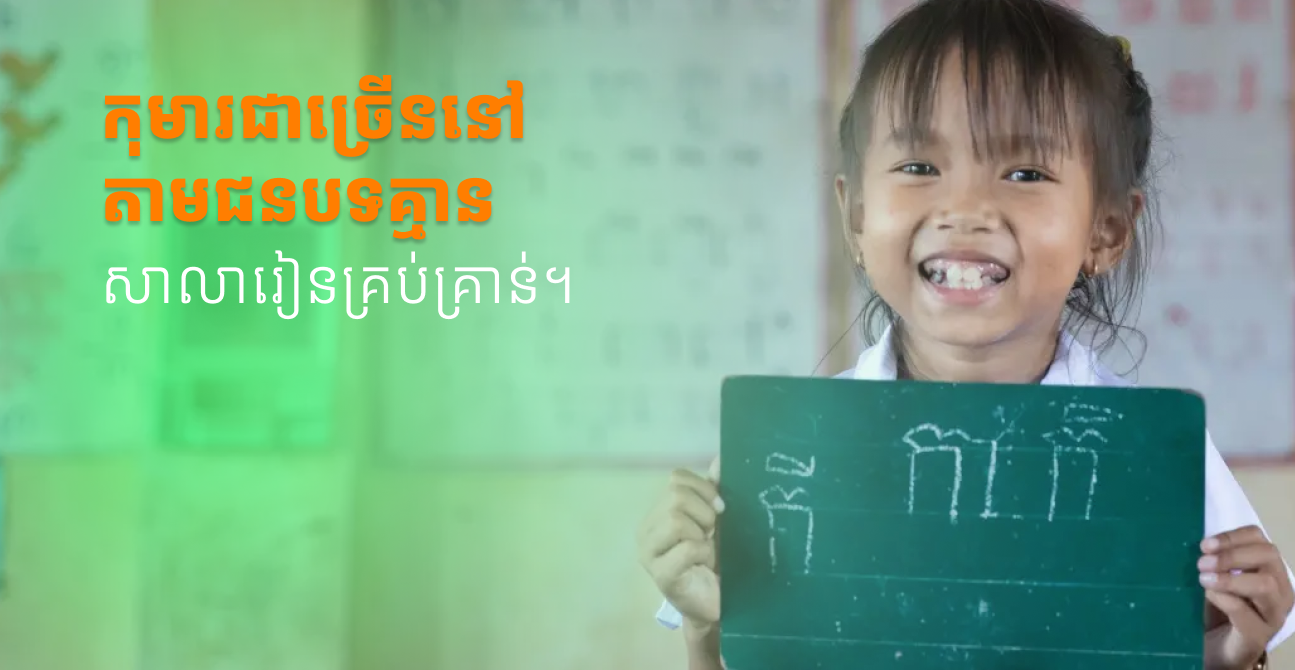
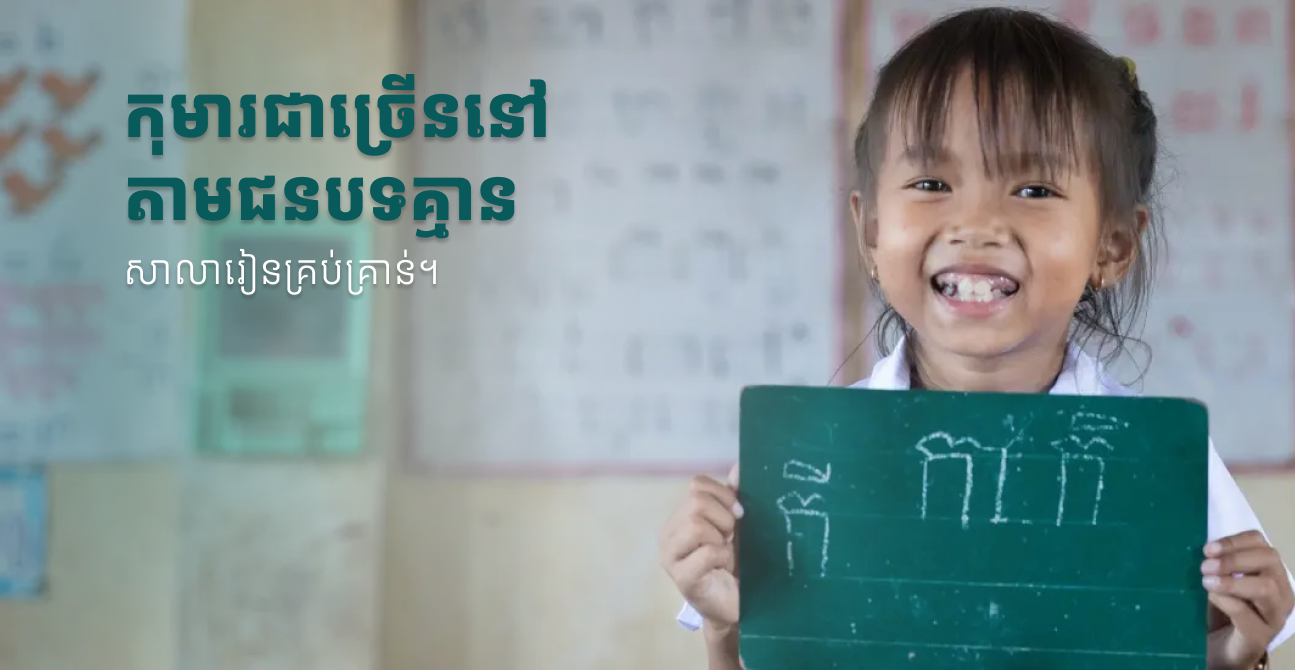
counter and fadeInOut

diff --git a/index.html b/index.html
@@ -85,8 +85,9 @@
 		</header>
 		<main>
 			<section>
-				<div class="container-fluid container-lg hero-banner my-5 mx-auto">
-					<div id="carouselExampleIndicators" class="carousel slide carousel-fade slide-banner" data-bs-ride="carousel" data-bs-interval="4000" data-csi="scroll">
+				<div class="container-fluid container-lg hero-banner my-5 mx-auto animate__animated animate__fadeIn">
+					<div id="carouselExampleIndicators" class="carousel slide carousel-fade slide-banner"
+						data-bs-ride="carousel" data-bs-interval="4000" data-csi="fade-in-out">
 						<div class="carousel-indicators">
 							<button type="button" data-bs-target="#carouselExampleIndicators" data-bs-slide-to="0"
 								class="active" aria-current="true" aria-label="Slide 1"></button>
@@ -108,15 +109,19 @@
 								<img src="assets/image/hero/hero3.png" alt="...">
 							</div>
 							<div class="carousel-item">
-								<img src="assets/image/hero/hero1.png" alt="...">
+								<img
+									src="https://live-production.wcms.abc-cdn.net.au/ac05d093590f0dc6c5de05cc50b528c0?impolicy=wcms_crop_resize&cropH=2813&cropW=5000&xPos=0&yPos=0&width=862&height=485"
+									alt="...">
 							</div>
 						</div>
-						<button class="carousel-control-prev" type="button" data-bs-target="#carouselExampleIndicators"
+						<button class="carousel-control-prev" type="button"
+							data-bs-target="#carouselExampleIndicators"
 							data-bs-slide="prev">
 							<span class="carousel-control-prev-icon" aria-hidden="true"></span>
 							<span class="visually-hidden">Previous</span>
 						</button>
-						<button class="carousel-control-next" type="button" data-bs-target="#carouselExampleIndicators"
+						<button class="carousel-control-next" type="button"
+							data-bs-target="#carouselExampleIndicators"
 							data-bs-slide="next">
 							<span class="carousel-control-next-icon" aria-hidden="true"></span>
 							<span class="visually-hidden">Next</span>
@@ -124,14 +129,49 @@
 					</div>
 				</div>
 			</section>
-			<div style="height: 200vh;">
-
-			</div>
+			<section>
+				<div class="container-fluid container-lg mb-5 animate__animated" data-csi="fade-in-out">
+					<div class="row justify-content-center align-items-start gap-5 gap-md-0 bg-primary rounded-5 py-4 py-md-5 mx-1 mx-lg-0 fw-bold text-center counter-text">
+						<div class="col-12 col-md-4">
+							<div class="card bg-transparent border-0">
+								<div class="card-body p-0">
+									<div class="counter display-3 fw-semibold" data-countto="2500" data-duration="4000">0</div>
+								</div>
+								<div class="card-footer bg-transparent border-0 p-0">
+									<p class="card-text fw-normal">ចំនួនអ្នកផ្លល់ជំនួយ</p>
+								</div>
+							</div>
+						</div>
+						<div class="col-12 col-md-4">
+							<div class="card bg-transparent border-0">
+								<div class="card-body p-0">
+									<div class="counter display-3 fw-semibold" data-countto="500" data-duration="4000">0</div>
+								</div>
+								<div class="card-footer bg-transparent border-0 p-0">
+									<p class="card-text fw-normal">ចំនួនអ្នកធ្វើការស្ម័គ្រចិត្ត</p>
+								</div>
+							</div>
+						</div>
+						<div class="col-12 col-md-4">
+							<div class="card bg-transparent border-0">
+								<div class="card-body p-0">
+									<div class="counter display-3 fw-semibold" data-countto="3000" data-duration="4000">0</div>
+								</div>
+								<div class="card-footer bg-transparent border-0 p-0">
+									<p class="card-text fw-normal">ចំនួនអ្នកផ្លល់ជំនួយតាមអ៊នឡាញ</p>
+								</div>
+							</div>
+						</div>
+					</div>
+				</div>
+			</section>
+			<section style="height: 200vh;"></section>
 		</main>
 		<footer>
-			
+
 		</footer>
 	</body>
+	<script src="https://cdnjs.cloudflare.com/ajax/libs/jquery/3.4.1/jquery.min.js"></script>
 	<script src="bootstrap/js/bootstrap.bundle.js"></script>
 	<script src="https://unpkg.com/aos@2.3.1/dist/aos.js"></script>
 	<script src="assets/js/theme.js"></script>

diff --git a/assets/css/style.css b/assets/css/style.css
@@ -9,6 +9,15 @@
 /** css  */
 /** hor */
 @import url("theme.css");
+@import url("data.css");
+/** muslim */
+
+/** kim hak */
+
+/** punleu */
+
+/** vuthy */
+
 
 :root {
 	--english: "Source Sans 3", sans-serif;
@@ -29,16 +38,6 @@ body {
 	font-size: 18px;
 }
 
-[data-csi="glass"] {
-	background-color: var(--light);
-	position: sticky;
-	top: 0;
-	bottom: 0;
-	animation: glass both;
-	animation-timeline: view(99% 100%);
-	transition: all 1s ease-in-out;
-}
-
 .header-link > li > a {
 	color: var(--dark) !important;
 	&:hover,
@@ -47,27 +46,6 @@ body {
 	&.active,
 	&.show {
 		color: var(--bs-primary) !important;
-	}
-}
-
-@media screen and (min-width: 992px) {
-	@keyframes glass {
-		0% {
-			background-color: var(--light);
-			width: 100%;
-			border-radius: 0px;
-			top: 5px;
-			box-shadow: none;
-		}
-		5%,
-		100% {
-			background-color: rgba(from var(--light) 0.9);
-			color: white;
-			top: 5px;
-			width: 95%;
-			backdrop-filter: blur(10px); border: 1px solid rgba(0, 0, 0, 0.1);
-			border-radius: 20px;
-		}
 	}
 }
 
@@ -87,30 +65,53 @@ body {
 	height: 100%;
 	object-fit: cover;
 	object-position: top;
-	/* aspect-ratio: 16 / 9; */
+	aspect-ratio: 16 / 9;
 }
 
-/* @media screen and (max-width: 991px) {
-	.carousel-inner {
-		height: 50vh;
+/** counter */
+
+.counter-size {
+	width: 100px !important;
+	height: 100px !important;
+}
+
+.counter {
+	width: 100%;
+	height: 100%;
+	display: flex;
+	align-items: center;
+	align-content: center;
+	justify-content: center;
+	vertical-align: middle;
+	&::before {
+		content: '+';
+		margin-right: 5px;
 	}
 }
+
+.counter-text > 
+.col-12 .card,
+.col-lg-4 .card {
+	color: var(--light);
+	& .card-footer {
+		color: var(--warning);
+		& p {
+			font-size: clamp(1rem, 1vw + 0.6rem , 3rem);
+		}
+	}
+}
+
+
+/** media screen */
 
 @media screen and (max-width: 767px) {
-	.carousel-inner {
-		height: 25vh;
-	}
-} */
-
-[data-csi="scroll"] {
-	animation: scroll both;
-	animation-timeline: view(0% 100%);
+	
 }
 
-@keyframes scroll {
-	from {
-		scale: 1;
-	} to {
-		scale: 0;
-	}
+@media screen and (max-width: 991px) {
+	
+}
+
+@media screen and (min-width: 992px) {
+	
 }

diff --git a/assets/css/data.css b/assets/css/data.css
@@ -1,0 +1,67 @@
+[data-csi="glass"] {
+	background-color: var(--light);
+	position: sticky;
+	top: 0;
+	bottom: 0;
+	animation: glass both;
+	animation-timeline: view(99% 100%);
+	transition: all 1s ease-in-out;
+}
+
+@media screen and (min-width: 992px) {
+	@keyframes glass {
+		0% {
+			background-color: var(--light);
+			width: 100%;
+			border-radius: 0px;
+			top: 5px;
+			box-shadow: none;
+		}
+		5%,
+		100% {
+			background-color: rgba(from var(--light) 0.9);
+			color: white;
+			top: 5px;
+			width: 95%;
+			backdrop-filter: blur(10px);
+			border: 1px solid rgba(0, 0, 0, 0.1);
+			border-radius: 20px;
+		}
+	}
+}
+
+[data-csi="scroll"] {
+	animation: scroll;
+	animation-timeline: view(0% 100%);
+}
+
+@keyframes scroll {
+	0% {
+		scale: 1;
+	}
+	60%, 100% {
+		scale: .9;
+		filter: blur(20px);
+	}
+}
+
+[data-csi="fade-in-out"] {
+	animation: fadeInOut both;
+	animation-timeline: view(10% 25%);
+}
+
+@keyframes fadeInOut {
+	0% {
+		opacity: 0;
+		scale: .8;
+		filter: blur(100px);
+	} 5%, 85% {
+		opacity: 1;
+		scale: 1;
+		filter: blur(0);
+	} 100% {
+		opacity: 1;
+		scale: .8;
+		filter: blur(20px);
+	}
+}

diff --git a/assets/js/theme.js b/assets/js/theme.js
@@ -88,3 +88,25 @@
 
 // * aos animation on scroll
 AOS.init();
+
+// * counter
+$(".counter").each(function () {
+  var $this = $(this),
+    countTo = $this.attr("data-countto");
+  countDuration = parseInt($this.attr("data-duration"));
+  $({ counter: $this.text() }).animate(
+    {
+      counter: countTo
+    },
+    {
+      duration: countDuration,
+      easing: "linear",
+      step: function () {
+        $this.text(Math.floor(this.counter));
+      },
+      complete: function () {
+        $this.text(this.counter);
+      }
+    }
+  );
+});
